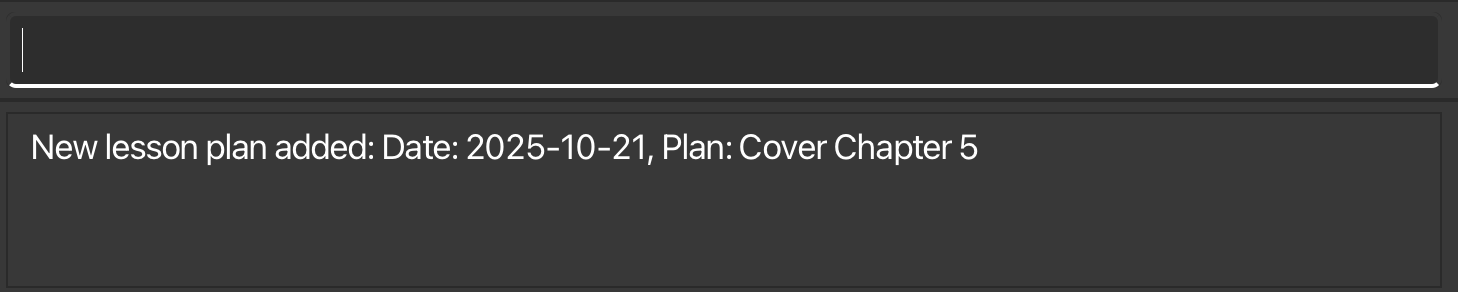
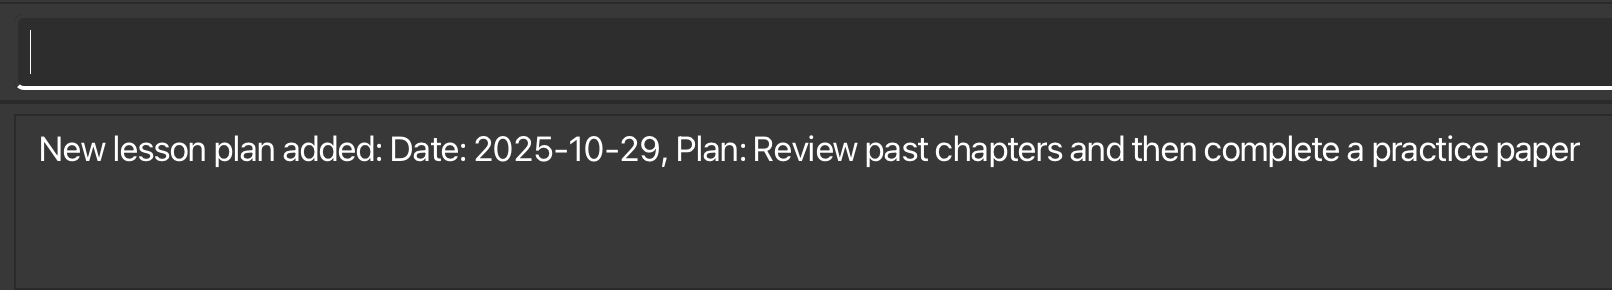
Change examples cases of addplan/progress

Changed region(s): [[0.0, 0.4345, 0.9877, 0.5897], [0.0, 0.2793, 1.0, 0.3103]]

diff --git a/docs/UserGuide.md b/docs/UserGuide.md
@@ -198,11 +198,14 @@ Format:
 
 Examples:
 
-`addplan 1 pl/2025-10-25|Introduce quadratic equations`
-Adds a lesson plan on 25 Oct 2025 for the 1st student.
+* `addplan 1 pl/2025-10-15|Cover Chapter 5`
+Adds a lesson plan on 15 Oct 2025 for the 1st student.
 
-`addplan 2 pl/2025-10-23|Essay writing techniques and structure`
-Adds a lesson plan on 23 Oct 2025 for the 2nd student.
+* `addplan 2 pl/2025-10-22|Cover Chapter 6 and Review Assignment 2`
+Adds a lesson plan on 22 Oct 2025 for the 2nd student.
+
+* `addplan 3 pl/2025-10-29|Review past chapters and then complete a practice paper`
+Adds a lesson plan on 29 Oct 2025 for the 2nd student.
 
 Expected outcome:<br>
 
@@ -248,11 +251,14 @@ Format: `addprogress INDEX Date|Description`
 
 Examples:
 
-* `addprogress 1 pr/2025-10-21|Introduced new algebra concepts`
-Adds a progress entry on 21 Oct 2025 for the 1st student.
+* `addprogress 1 pr/2025-10-15|Reviewed Chapter 5`
+Adds a progress entry on 15 Oct 2025 for the 1st student.
 
-* `addprogress 2 pr/2025-10-15|Reviewed essay structure and grammar`
-Adds a progress entry on 15 Oct 2025 for the 2nd student.
+* `addprogress 2 pr/2025-10-22|Covered Chapter 6, Assignment 2 not completed`
+Adds a progress entry on 22 Oct 2025 for the 2nd student.
+
+* `addprogress 3 pr/2025-10-29|Revision on Chapter 4, completed Dunman Secondary School 2023 Practice Paper`
+Adds a progress entry on 29 Oct 2025 for the 3rd student.
 
 Expected outcome:<br>
 
